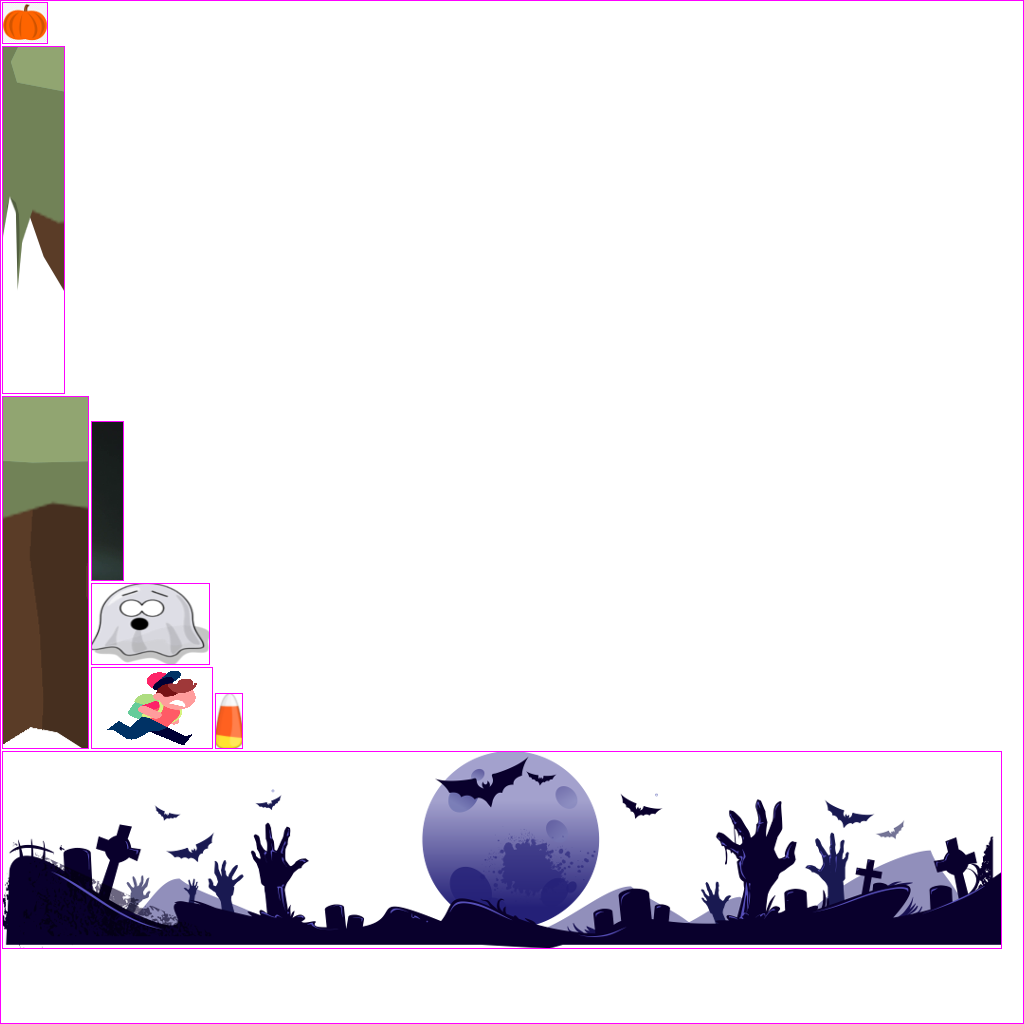
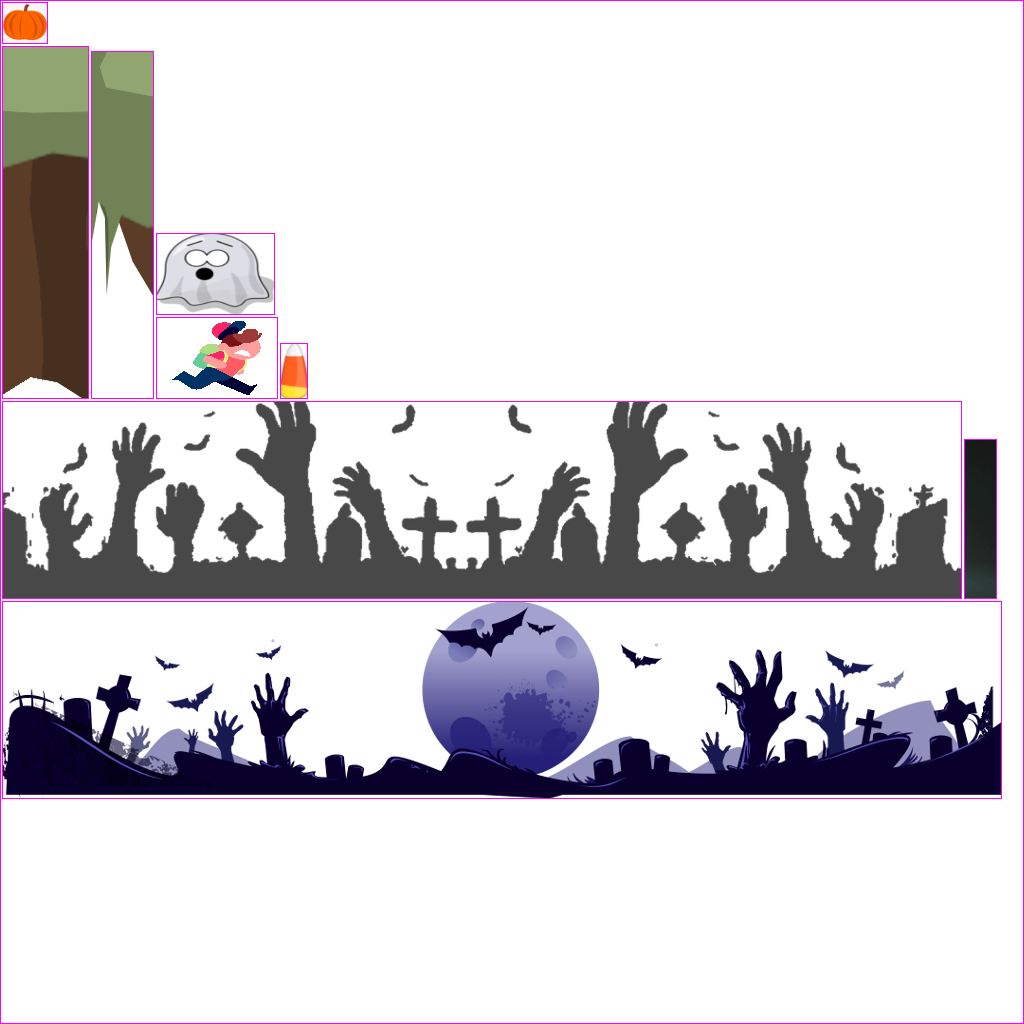
Final touch ups to make the images look a little nicer

diff --git a/core/src/com/packtpub/libgdx/ghostrunner/Level.java b/core/src/com/packtpub/libgdx/ghostrunner/Level.java
@@ -28,16 +28,31 @@ public class Level
         ITEM_CANDY_CORN(255, 255, 0); // yellow
         private int color;
         
+        /**
+         * limitations for block type
+         * @param r
+         * @param g
+         * @param b
+         */
         private BLOCK_TYPE (int r, int g, int b)
         {
             color = r << 24 | g << 16 | b << 8 | 0xff;
         }
         
+        /**
+         * checks to see if same color
+         * @param color
+         * @return
+         */
         public boolean sameColor (int color)
         {
             return this.color == color;
         }
         
+        /**
+         * returns the color
+         * @return
+         */
         public int getColor ()
         {
             return color;
@@ -51,10 +66,19 @@ public class Level
         public Graveyard graveyard;
         public BlackOverlay blackOverlay;
         
+        /**
+         * creates instance of level
+         * @param filename
+         */
         public Level (String filename)
         {
             init(filename);
         }
+        
+        /**
+         * initializes the level
+         * @param filename
+         */
         private void init (String filename)
         {
             // objects

diff --git a/core/src/com/packtpub/libgdx/ghostrunner/game/objects/Graveyard.java b/core/src/com/packtpub/libgdx/ghostrunner/game/objects/Graveyard.java
@@ -17,12 +17,19 @@ public class Graveyard extends AbstractGameObject
     private TextureRegion regGraveyardRight;
     private int length;
     
+    /**
+     * instance of graveyard
+     * @param length
+     */
     public Graveyard(int length)
     {
       this.length = length;
       init();
     }
     
+    /**
+     * initializes graveyard
+     */
     private void init()
     {
         dimension.set(10, 2);
@@ -33,6 +40,13 @@ public class Graveyard extends AbstractGameObject
         length += dimension.x * 2;
     }
     
+    	/**
+    	 * Draws the graveyard
+    	 * @param batch
+    	 * @param offsetX
+    	 * @param offsetY
+    	 * @param tintColor
+    	 */
         private void drawGraveyard (SpriteBatch batch, float offsetX, float offsetY, float tintColor)
         {
             TextureRegion reg = null;
@@ -65,6 +79,9 @@ public class Graveyard extends AbstractGameObject
         }
         
         @Override
+        /**
+         * renders the graveyard
+         */
         public void render(SpriteBatch batch)
         {
         	// distant graveyard (dark gray)

diff --git a/core/src/com/packtpub/libgdx/ghostrunner/util/Assets.java b/core/src/com/packtpub/libgdx/ghostrunner/util/Assets.java
@@ -72,7 +72,10 @@ public class Assets implements Disposable, AssetErrorListener
     }
 
 
-    
+    /**
+     * initializes the asset manager
+     * @param assetManager
+     */
     public void init (AssetManager assetManager) 
     {
         this.assetManager = assetManager;
@@ -153,8 +156,8 @@ public class Assets implements Disposable, AssetErrorListener
             //cloud01 = atlas.findRegion("cloud01");
             //cloud02 = atlas.findRegion("cloud02");
             //cloud03 = atlas.findRegion("cloud03");
-            graveyardLeft = atlas.findRegion("Graveyard");
-            graveyardRight = atlas.findRegion("Graveyard");
+            graveyardLeft = atlas.findRegion("Graveyard2");
+            graveyardRight = atlas.findRegion("Graveyard2");
             blackOverlay = atlas.findRegion("BlackOverlay");
         }
         

diff --git a/core/src/com/packtpub/libgdx/ghostrunner/GhostRunnerMain.java b/core/src/com/packtpub/libgdx/ghostrunner/GhostRunnerMain.java
@@ -54,8 +54,8 @@ public class GhostRunnerMain implements ApplicationListener
 		// since last rendered frame.
 		worldController.update(Gdx.graphics.getDeltaTime());
 		}
-		// Sets the clear screen color to: Cornflower Blue
-		Gdx.gl.glClearColor(0x64/255.0f, 0x95/255.0f, 0xed/255.0f, 0xff/255.0f);
+		// Sets the clear screen color to: dark orchid purple
+		Gdx.gl.glClearColor(0x99/255.0f, 0x32/255.0f, 0x5cc/255.0f, 0xff/255.0f);
 		// Clears the screen
 		Gdx.gl.glClear(GL20.GL_COLOR_BUFFER_BIT);
 		

diff --git a/core/src/com/packtpub/libgdx/ghostrunner/game/objects/Rock.java b/core/src/com/packtpub/libgdx/ghostrunner/game/objects/Rock.java
@@ -17,7 +17,9 @@ public class Rock extends AbstractGameObject
     
     private int length;
     
-
+    /**
+     * initializes rock
+     */
     public Rock() 
     {
         init();
